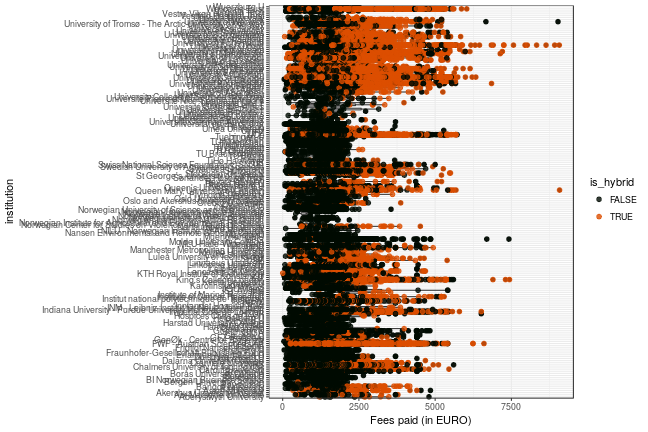
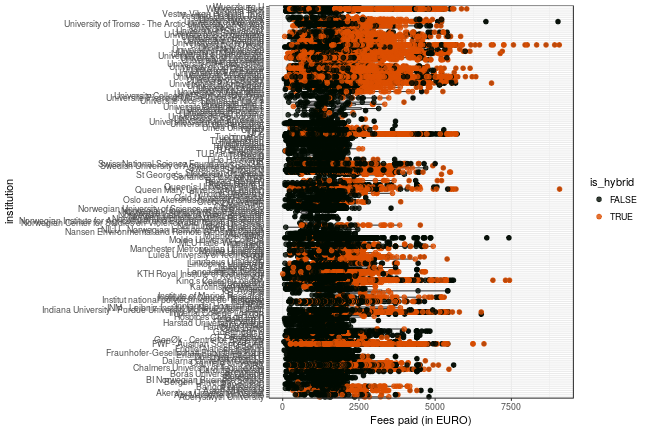
post: igb joins openapc

diff --git a/about.md b/about.md
@@ -72,6 +72,7 @@ The data content covers APCs as paid for by our central budget for the Max Planc
 - [GIGA German Institute of Global and Area Studies](https://www.giga-hamburg.de/en/giga-open-access-guidelines)
 - [Helmholtz-Zentrum Dresden-Rossendorf](http://www.hzdr.de/db/Cms?pNid=73)
 - [Helmholtz-Zentrum für Umweltforschung - UFZ](https://www.ufz.de/index.php?de=33573)
+- [IGB - Leibniz-Institute of Freshwater Ecology and Inland Fisheries](http://www.igb-berlin.de/bibliothek)
 - [INM - Leibniz Institute for New Materials](http://bibliothek.inm-gmbh.de/publizieren/publikationsgebuhren/)
 - [IPN - Leibniz Institute for Science and Mathematics Education](http://www.ipn.uni-kiel.de/en/the-ipn/library/open-access)
 - [Leibniz Association's Open Access Publishing Fund](http://www.leibniz-gemeinschaft.de/en/infrastructures/open-access/open-access-publishing-fund/)
@@ -253,13 +254,13 @@ Jisc Collections released data on APC payments made by UK higher education insti
 
 Information on both open access journal articles and open access publication of articles in toll-access journals ("hybrid") are provided.
 
-In total,  104 305 891 € for  55 191 articles were paid by the participating unviversities. Average  fee is 1 889.9 € and the median 1 687 €.
+In total,  104 326 867 € for  55 201 articles were paid by the participating unviversities. Average  fee is 1 889.9 € and the median 1 687 €.
 
 ### Open Access Journals
 
 
 
-At the moment, the dataset releases information on 32 735 articles in open access journals which charge publication fees. Total expenditure amounts to  48 601 010 €. Average  fee is 1 484.7 € and the median 1 408 €.
+At the moment, the dataset releases information on 32 740 articles in open access journals which charge publication fees. Total expenditure amounts to  48 611 712 €. Average  fee is 1 484.8 € and the median 1 407 €.
 
 View dataset on [GitHub](https://github.com/OpenAPC/openapc-de/blob/master/data/apc_de.csv).
 
@@ -326,7 +327,8 @@ View dataset on [GitHub](https://github.com/OpenAPC/openapc-de/blob/master/data/
 |Konstanz U                                                      |      345|           524,743|         1,521|  1,506|
 |KTH Royal Institute of Technology                               |      181|           217,262|         1,200|  1,152|
 |Lancaster University                                            |       28|            34,167|         1,220|  1,221|
-|Leibniz-Fonds                                                   |      274|           439,562|         1,604|  1,570|
+|Leibniz-Fonds                                                   |      273|           438,130|         1,605|  1,572|
+|Leibniz-IGB                                                     |        6|            12,134|         2,022|  2,132|
 |Leipzig U                                                       |      415|           611,856|         1,474|  1,553|
 |Linköping University                                            |      167|           262,221|         1,570|  1,357|
 |Linnaeus University                                             |        1|               630|           630|    630|
@@ -456,7 +458,7 @@ View dataset on [GitHub](https://github.com/OpenAPC/openapc-de/blob/master/data/
 
 
 In many toll-access journals some of the articles are open access after a fee has been paid. This model is often called "hybrid open access".
-The dataset covers 22 456 hybrid open access articles. Total expenditure amounts to  55 704 881 €. Average  fee is 2 480.6 € and the median 2 441 €.
+The dataset covers 22 461 hybrid open access articles. Total expenditure amounts to  55 715 154 €. Average  fee is 2 480.5 € and the median 2 441 €.
 
 The following institutions have contributed its expenditures for hybrid open access.
 
@@ -503,6 +505,7 @@ The following institutions have contributed its expenditures for hybrid open acc
 |Konstanz U                                                  |        3|             5,556|         1,852|  1,950|
 |KTH Royal Institute of Technology                           |      136|           248,396|         1,826|  1,848|
 |Lancaster University                                        |       88|           200,823|         2,282|  2,221|
+|Leibniz-IGB                                                 |        5|            10,273|         2,055|  2,871|
 |Linköping University                                        |       54|           111,882|         2,072|  2,132|
 |LSE                                                         |       44|            86,452|         1,965|  2,067|
 |LSHTM                                                       |       79|           199,854|         2,530|  2,287|
@@ -650,7 +653,7 @@ For data enrichment, sample visualisations and explorations we build on the work
 
 ## Contributors
 
-Jens Harald Aasheim, Benjamin Ahlborn, Chelsea Ambler, Magdalena Andrae, Jochen Apel, Hans-Georg Becker, Roland Bertelmann, Daniel Beucke, Peter Blume, Ute Blumtritt, Sabine Boccalini, Kim Braun, Christoph Broschinski, Dorothea Busjahn, Pablo de Castro, Roberto Cozatl, Amanda Cullin, Patrick Danowski, Gernot Deinzer, Julia Dickel, Andrea Dorner, Stefan Drößler, Karin Eckert, Carsten Elsner, Clemens Engelhardt, Inken Feldsien-Sudhaus, Fabian Franke, Claudia Frick, Paola Galimberti, Agnes Geißelmann, Kai Karin Geschuhn, Steffi Grimm, Christian Gutknecht, Uli Hahn, Kristina Hanig, Dominik Hell, Ulrich Herb, Stephanie Herzog, Ute Holzwarth, Christie Hurrell, Doris Jaeger, Najko Jahn, Alexandra Jobmann, Andreas Kennecke, Robert Kiley, Gerrit Kuehle, Ignasi Labastida i Juan, Gerald Langhanke, Stuart Lawson, Kathrin Lucht-Roussel, Jan Lüth, Frank Lützenkirchen, Anna Marini, Anja Oberländer, Jere Odell, Vitali Peil, Dirk Pieper, Tobias Pohlmann, Thomas Porquet, Markus Putnings, Annette Scheiner, Michael Schlachter, Birgit Schlegel, Stefanie Seeh, Adriana Sikora, Susanne Stemmler, Matti Stöhr, Andrée Rathemacher, Edith Reschke, Katharina Rieck, Florian Ruckelshausen, Ilka Rudolf, Marco Tullney, Astrid Vieler, Viola Voß, Marco Winkler, Sabine Witt, Philip Young
+Jens Harald Aasheim, Benjamin Ahlborn, Chelsea Ambler, Magdalena Andrae, Jochen Apel, Hans-Georg Becker, Roland Bertelmann, Daniel Beucke, Peter Blume, Ute Blumtritt, Sabine Boccalini, Kim Braun, Christoph Broschinski, Dorothea Busjahn, Pablo de Castro, Roberto Cozatl, Amanda Cullin, Patrick Danowski, Gernot Deinzer, Julia Dickel, Andrea Dorner, Stefan Drößler, Karin Eckert, Carsten Elsner, Clemens Engelhardt, Inken Feldsien-Sudhaus, Fabian Franke, Claudia Frick, Paola Galimberti, Agnes Geißelmann, Kai Karin Geschuhn, Steffi Grimm, Christian Gutknecht, Uli Hahn, Kristina Hanig, Dominik Hell, Ulrich Herb, Stephanie Herzog, Ute Holzwarth, Christie Hurrell, Doris Jaeger, Najko Jahn, Alexandra Jobmann, Andreas Kennecke, Robert Kiley, Lydia Koglin, Gerrit Kuehle, Ignasi Labastida i Juan, Gerald Langhanke, Stuart Lawson, Kathrin Lucht-Roussel, Jan Lüth, Frank Lützenkirchen, Anna Marini, Anja Oberländer, Jere Odell, Vitali Peil, Dirk Pieper, Tobias Pohlmann, Thomas Porquet, Markus Putnings, Annette Scheiner, Michael Schlachter, Birgit Schlegel, Stefanie Seeh, Adriana Sikora, Susanne Stemmler, Matti Stöhr, Andrée Rathemacher, Edith Reschke, Katharina Rieck, Florian Ruckelshausen, Ilka Rudolf, Marco Tullney, Astrid Vieler, Viola Voß, Marco Winkler, Sabine Witt, Philip Young
 
 ## Contact
 

diff --git a/_posts/2018-08-10-igb.md b/_posts/2018-08-10-igb.md
@@ -1,0 +1,49 @@
+---
+layout:     post
+author:     Christoph Broschinski
+author_lnk: https://github.com/cbroschinski
+title:      IGB joins OpenAPC
+date:       2018-08-10 09:00:00
+summary:    
+categories: [general, openAPC]
+comments: true
+---
+
+
+
+
+We welcome the [Leibniz-Institute of Freshwater Ecology and Inland Fisheries (IGB)](http://www.igb-berlin.de/en) as new contributing institution!
+
+The [IGB Library](http://www.igb-berlin.de/en/library) manages the institution's APC expenditures and the IGB publishing fund established in 2018.
+
+Contact Person is [Lydia Koglin](mailto:koglin@igb-berlin.de).
+
+## Cost data
+
+
+
+The initial dataset provided by the IGB covers publication fees for 11 articles published in 2017. Total expenditure amounts to 22 407€ and the average fee is 2 037€.
+
+
+|                                                           | Articles| Fees paid in EURO| Mean Fee paid|
+|:----------------------------------------------------------|--------:|-----------------:|-------------:|
+|Springer Nature                                            |        3|              7965|          2655|
+|Oxford University Press (OUP)                              |        2|              4070|          2035|
+|American Association for the Advancement of Science (AAAS) |        1|              3000|          3000|
+|Elsevier BV                                                |        1|              2871|          2871|
+|Oekom Publishers GmbH                                      |        1|               850|           850|
+|Pensoft Publishers                                         |        1|               299|           299|
+|University of Chicago Press                                |        1|               352|           352|
+|Wiley-Blackwell                                            |        1|              3000|          3000|
+
+## Overview
+
+A detailed analysis of the contributed data provides the following overview:
+
+### Fees paid per publisher (in EURO)
+
+![plot of chunk tree_igb_2018_08_10_full](/figure/tree_igb_2018_08_10_full-1.png)
+
+###  Average costs per publisher (in EURO)
+
+![plot of chunk box_igb_2018_08_10_publisher_full](/figure/box_igb_2018_08_10_publisher_full-1.png)
